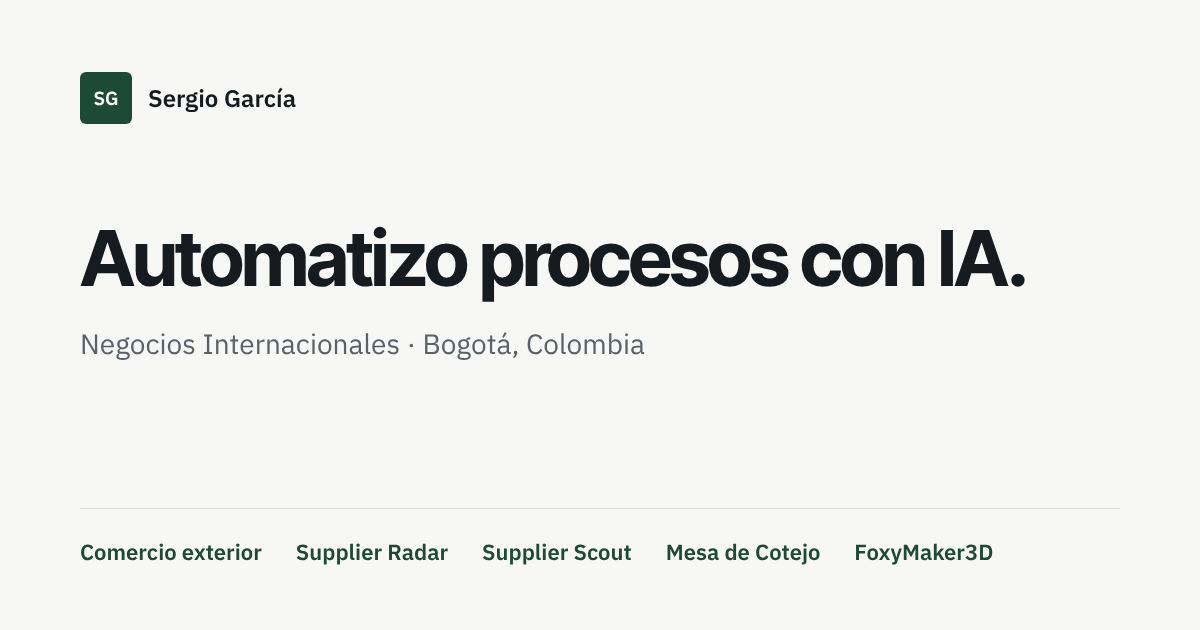
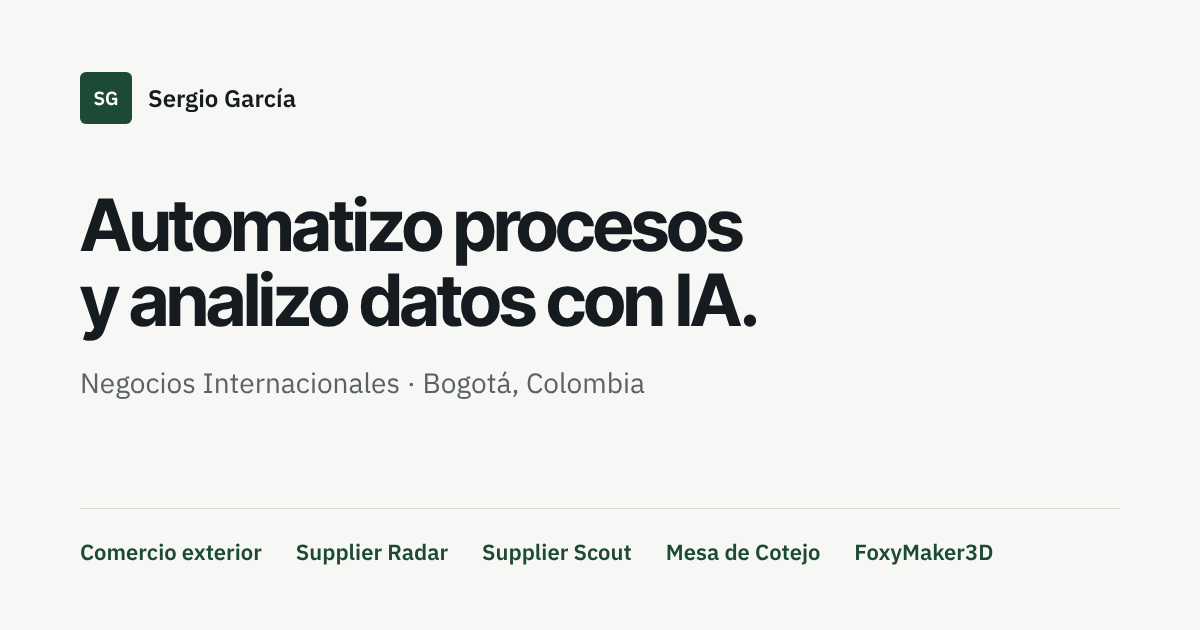
Portafolio: título «Automatizo procesos y analizo datos con IA.»
El caso principal ahora es de análisis de datos: el título, el título de la página (ES y EN),
la descripción, la imagen para compartir y el README lo dicen.

Claude-Session: https://claude.ai/code/session_01KDuhrJDjhPcUyJR8smYRnx

Changed region(s): [[0.0617, 0.3016, 0.8633, 0.573], [0.0617, 0.6032, 0.555, 0.6333]]

diff --git a/index.html b/index.html
@@ -5,21 +5,21 @@
 <meta name="viewport" content="width=device-width, initial-scale=1">
 <meta http-equiv="Content-Security-Policy" content="default-src 'none'; script-src 'self'; style-src 'self'; img-src 'self' data:; media-src 'self'; font-src 'self'; connect-src 'none'; base-uri 'none'; form-action 'none'; manifest-src 'self'">
 <meta name="referrer" content="strict-origin-when-cross-origin">
-<title>Sergio García · Automatización de procesos e IA aplicada</title>
-<meta name="description" content="Portafolio de Sergio García (Bogotá): automatización de procesos, agentes de IA y contenido con IA. Cinco casos con demo, código y resultados verificables.">
+<title>Sergio García · Automatización de procesos, análisis de datos e IA</title>
+<meta name="description" content="Portafolio de Sergio García (Bogotá): automatización de procesos, análisis de datos, agentes de IA y contenido con IA. Cinco casos con demo, código y resultados verificables.">
 <meta name="author" content="Sergio García">
 <meta name="theme-color" content="#f7f7f5">
 <link rel="canonical" href="https://dsergio909.github.io/">
 <link rel="icon" href="img/favicon.svg" type="image/svg+xml">
 <meta property="og:type" content="profile">
 <meta property="og:site_name" content="Sergio García">
-<meta property="og:title" content="Sergio García · Automatizo procesos con IA">
+<meta property="og:title" content="Sergio García · Automatizo procesos y analizo datos con IA">
 <meta property="og:description" content="Cinco casos con demo, código y resultados verificables: el comercio exterior de Colombia con SQL y Power BI, Supplier Radar, Supplier Scout, la Mesa de Cotejo y un taller de impresión 3D operado con agentes de IA.">
 <meta property="og:url" content="https://dsergio909.github.io/">
 <meta property="og:image" content="https://dsergio909.github.io/img/og.png">
 <meta property="og:image:width" content="1200">
 <meta property="og:image:height" content="630">
-<meta property="og:image:alt" content="Sergio García: automatización de procesos, agentes de IA y contenido con IA">
+<meta property="og:image:alt" content="Sergio García: automatizo procesos y analizo datos con IA. Cinco casos: Comercio exterior, Supplier Radar, Supplier Scout, Mesa de Cotejo y FoxyMaker3D">
 <meta property="og:locale" content="es_CO">
 <meta property="og:locale:alternate" content="en_US">
 <meta name="twitter:card" content="summary_large_image">
@@ -34,7 +34,7 @@
   "alternateName": "Sergio David García Celis",
   "url": "https://dsergio909.github.io/",
   "email": "mailto:dsergio909@gmail.com",
-  "jobTitle": "Automatización de procesos e IA aplicada",
+  "jobTitle": "Automatización de procesos y análisis de datos con IA",
   "address": { "@type": "PostalAddress", "addressLocality": "Bogotá", "addressCountry": "CO" },
   "alumniOf": { "@type": "CollegeOrUniversity", "name": "Universidad Santo Tomás" },
   "knowsLanguage": ["es", "en"],
@@ -81,8 +81,8 @@
       <div class="hero__text">
         <p class="kicker">Sergio García · <span class="es">Bogotá, Colombia</span><span class="en">Bogotá, Colombia</span></p>
         <h1>
-          <span class="es">Automatizo procesos con IA.</span>
-          <span class="en">I automate processes with AI.</span>
+          <span class="es">Automatizo procesos y analizo datos con IA.</span>
+          <span class="en">I automate processes and analyze data with AI.</span>
         </h1>
         <p class="lede">
           <span class="es">Estudié Negocios Internacionales, no ingeniería. En mi práctica de compras había que pedirle los documentos a cada proveedor uno por uno, así que lo automaticé. Desde ahí construyo herramientas con IA, con una regla: si el sistema no está seguro, no decide. Se lo pasa a una persona y deja anotado por qué.</span>

diff --git a/js/main.js b/js/main.js
@@ -15,8 +15,8 @@
     en: { automatizacion: 'Process automation', datos: 'Data analysis', ia: 'AI operations', contenido: 'AI content & video', todos: 'everything' }
   };
   var TITLES = {
-    es: 'Sergio García · Automatización de procesos e IA aplicada',
-    en: 'Sergio García · Process automation and applied AI'
+    es: 'Sergio García · Automatización de procesos, análisis de datos e IA',
+    en: 'Sergio García · Process automation, data analysis and AI'
   };
 
   var state = { lang: 'es', rol: 'todos', scenario: 0, edited: false };

diff --git a/README.md b/README.md
@@ -1,6 +1,6 @@
 # Portafolio · Sergio García
 
-**[dsergio909.github.io](https://dsergio909.github.io/)** · Automatización de procesos, agentes de IA y contenido con IA. Bogotá, Colombia.
+**[dsergio909.github.io](https://dsergio909.github.io/)** · Automatización de procesos, análisis de datos, agentes de IA y contenido con IA. Bogotá, Colombia.
 
 Sitio estático en español e inglés con cinco casos (Comercio exterior de Colombia, Supplier Radar, Supplier Scout, Mesa de Cotejo y FoxyMaker3D), cada uno con problema, qué hice, lo que decidí y por qué, resultados con fuente y lo que aún falta. Debajo, en «También hice», el [Ojo del mundo](https://github.com/Dsergio909/ojo-del-mundo): un servidor MCP para que Claude vea un mundo de Minecraft en 3D.
 
